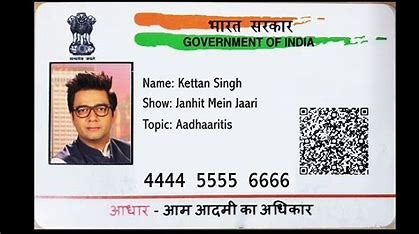
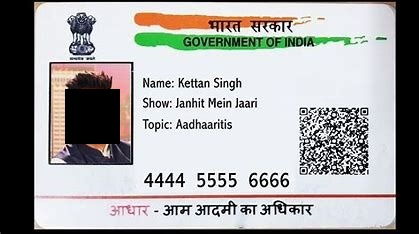
masker

Changed region(s): [[0.1551, 0.359, 0.3103, 0.6282]]

diff --git a/dummy-pii/masker.py b/dummy-pii/masker.py
@@ -1,0 +1,88 @@
+from pytesseract import Output
+import cv2
+import numpy as np
+import pytesseract
+
+pytesseract.pytesseract.tesseract_cmd = r'C:\Program Files\Tesseract-OCR\tesseract.exe'
+face_cascade = cv2.CascadeClassifier(cv2.data.haarcascades + 'haarcascade_frontalface_default.xml')
+
+class Masker:
+    def __init__(self, source_file):  # Corrected from _init_ to __init__
+        self.image = self.process_image(source_file)
+        self.image_data = self.get_image_data()
+    
+    def process_image(self, source_file):
+        contents = source_file.read()
+        nparr = np.frombuffer(contents, np.uint8)
+        img = cv2.imdecode(nparr, cv2.IMREAD_COLOR)
+        return img
+    
+    def get_image_data(self):
+        rgb = cv2.cvtColor(self.image, cv2.COLOR_BGR2RGB)
+        res = pytesseract.image_to_data(rgb, output_type=Output.DICT)
+        return res
+
+    def check_aadhar_num(self, text):
+        return len(text) == 4 and text.isdigit()
+
+    def get_uid_details(self):
+        text_data = self.image_data['text']
+        uid = []
+        for i in range(len(text_data)):
+            if self.check_aadhar_num(text_data[i]):
+                if len(text_data) < i + 2:
+                    return (False, None)
+                if self.check_aadhar_num(text_data[i + 1]) and self.check_aadhar_num(text_data[i + 2]):
+                    uid.extend((i, i+1, i+2))
+                    break
+        
+        if len(uid) != 3:
+            return False, None
+        else:
+            return True, uid
+
+    def mask_aadhar(self):
+        success, uid = self.get_uid_details()
+
+        if success:
+            self.mask_uid_number(uid)
+            return True
+        else:
+            return False
+    
+    def mask_uid_number(self, aadhar_data):
+        for i in range(len(aadhar_data)):
+            if i == 2:
+                break
+            d = aadhar_data[i]
+            x = self.image_data['left'][d]
+            y = self.image_data['top'][d]
+            w = self.image_data['width'][d]
+            h = self.image_data['height'][d]
+                                    
+            cv2.rectangle(self.image, (x, y), (x + w, y + h), (0, 0, 0), -1)
+
+    def mask_faces(self):
+        # Detect faces
+        faces = face_cascade.detectMultiScale(self.image, scaleFactor=1.1, minNeighbors=5, minSize=(30, 30))
+        
+        # Mask faces
+        for (x, y, w, h) in faces:
+            cv2.rectangle(self.image, (x, y), (x + w, y + h), (0, 0, 0), -1)
+    
+    def mask_all(self, output_file):
+        # Mask Aadhaar number
+        self.mask_aadhar()
+        
+        # Mask faces
+        self.mask_faces()
+
+        # Save the output image
+        cv2.imwrite(output_file.name, self.image)
+
+if __name__ == "__main__":
+    with open("1.jpg", "rb") as source_file, open("qw.jpg", "wb") as output_file:
+        masker = Masker(source_file)
+        masker.mask_all(output_file)
+
+    print("Aadhaar number and faces masked successfully!")
